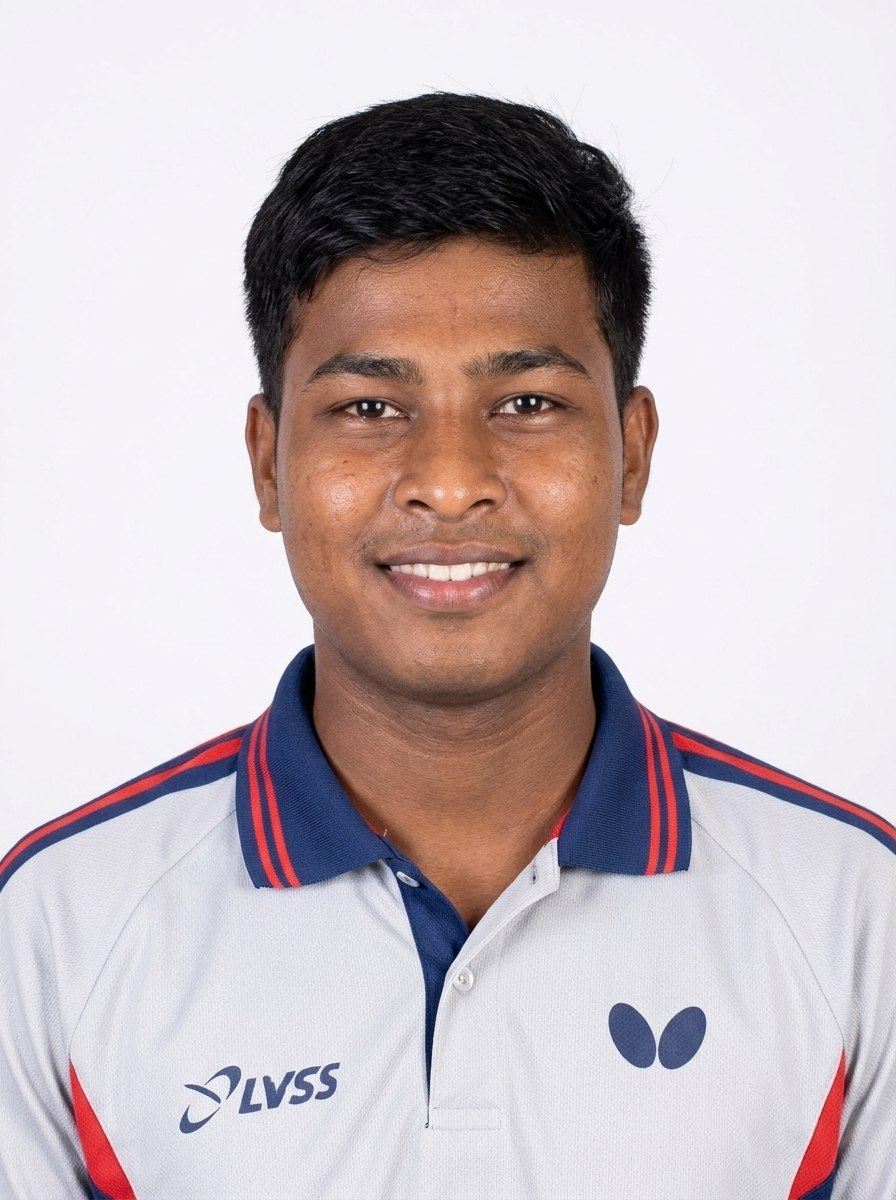
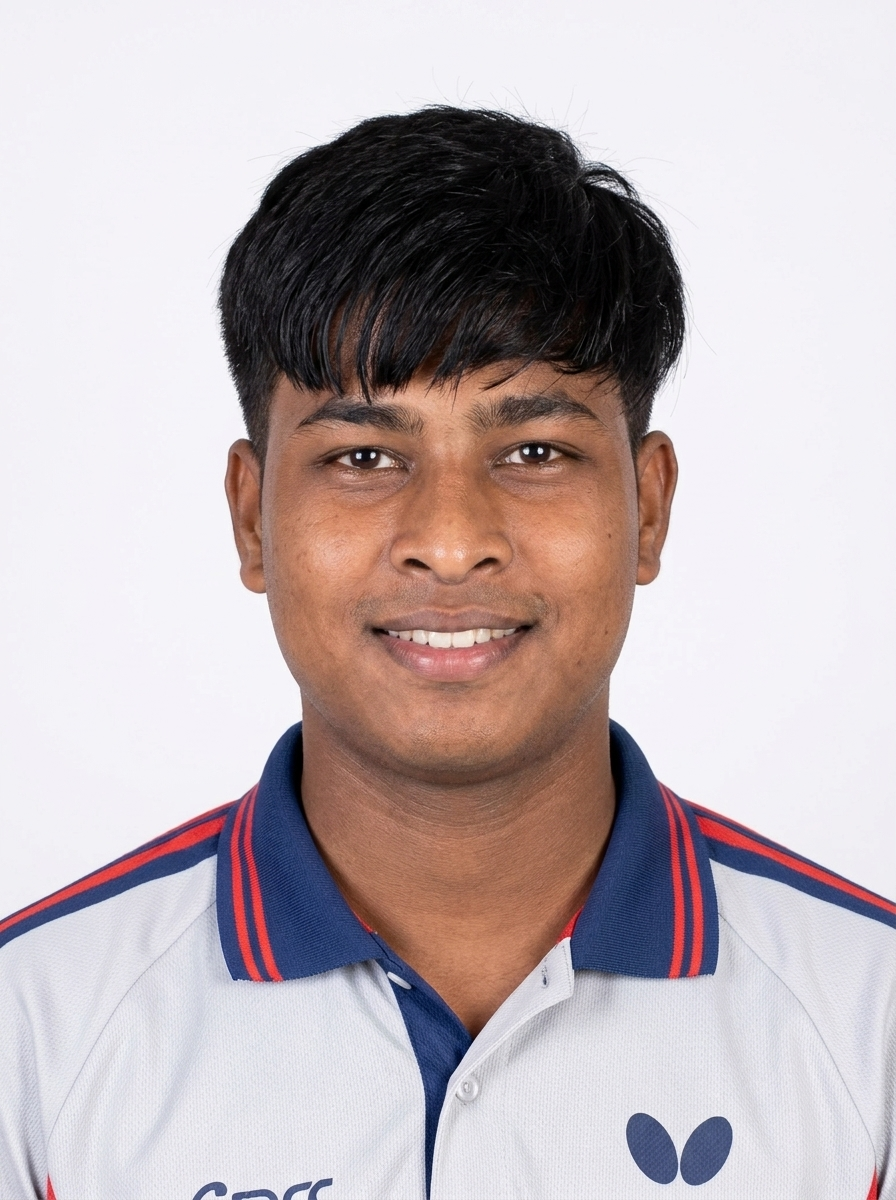
chore: remove Jerald and Mahaveer, update Rushi experience, and regenerate Samir mugshot

diff --git a/app/page.tsx b/app/page.tsx
@@ -53,18 +53,6 @@ const coaches = [
     ],
   },
   {
-    name: "Jerald",
-    initials: "JE",
-    image: "/images/JeraldMug.jpeg",
-    quote: "Technique is the language the body speaks on the table.",
-    bio: "Coach Jerald is a dual-certified ITTF and NIS coach with a reputation for precision training. His deep understanding of spin mechanics and serve strategy has helped numerous players elevate their competitive game.",
-    qualifications: [
-      "8+ years of coaching experience",
-      "ITTF certified coach",
-      "NIS certified coach",
-    ],
-  },
-  {
     name: "Augustine",
     initials: "AU",
     image: "/images/AugustineMug.jpeg",
@@ -85,17 +73,6 @@ const coaches = [
       "9+ years of coaching experience",
       "ITTF certified coach",
       "NIS certified coach",
-    ],
-  },
-  {
-    name: "Mahaveer",
-    initials: "MA",
-    image: "/images/MahaveerMug.jpeg",
-    quote: "In this sport, patience and persistence always prevail.",
-    bio: "With over a decade of coaching experience, Mahaveer is the team's most seasoned coach. He excels at long-term player development, guiding beginners to competitive players with a patient, progressive style.",
-    qualifications: [
-      "8+ years of coaching experience",
-      "ITTF certified coach",
     ],
   },
   {
@@ -127,7 +104,7 @@ const coaches = [
     quote: "Mastering the basics is the first step to mastering the table.",
     bio: "Coach Rushi focuses on building strong fundamentals and agility. With a patient and structured approach, he helps young talents and beginners master ball control, reaction time, and basic stroke play to build confidence.",
     qualifications: [
-      "2 years of coaching experience",
+      "3 years of coaching experience",
       "ITTF certified coach",
     ],
   },
@@ -551,7 +528,7 @@ export default function HomePage() {
                     on your schedule.
                   </p>
                   <p>
-                    Today, with over 1,000 students trained and a team of 10+ certified coaches, Sharwin
+                    Today, with over 1,000 students trained and a team of 8+ certified coaches, Sharwin
                     Table Tennis Academy stands as Bangalore&apos;s most trusted and accessible table
                     tennis institution — and the mission is far from over.
                   </p>
@@ -792,7 +769,7 @@ export default function HomePage() {
                 </a>
               </h2>
               <p className="mt-3 text-muted-foreground max-w-xl mx-auto text-sm">
-                Ten dedicated professionals with a genuine passion for developing the next generation
+                Nine dedicated professionals with a genuine passion for developing the next generation
                 of table tennis players.
               </p>
             </AnimateOnScroll>
